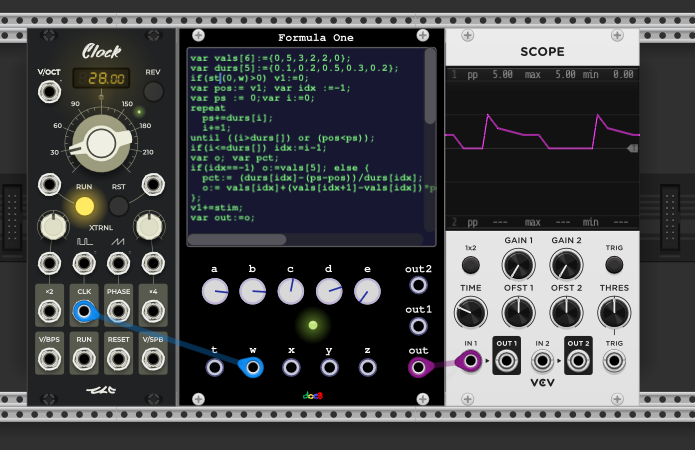
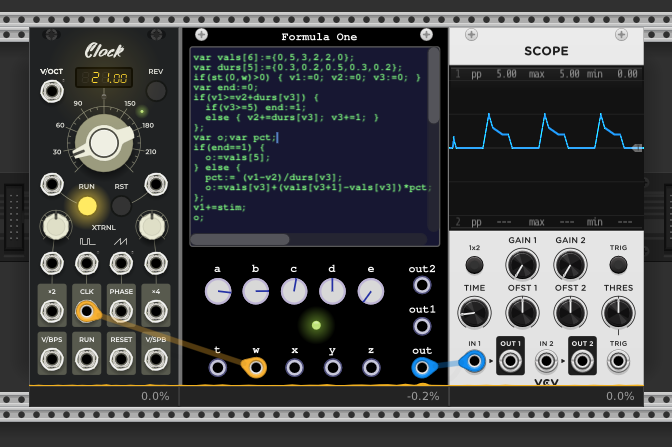
update readme and presets

diff --git a/README.md b/README.md
@@ -8,28 +8,31 @@ A script/formula evaluation module for VCVRack. This module can do almost anythi
 It is based on the [exprtk expression library](http://www.partow.net/programming/exprtk/index.html) 
 which has very good [benchmarks](https://github.com/ArashPartow/math-parser-benchmark-project#the-rounds).
 
+It is not intended for replacing native modules because they still will be faster i.e. consume less CPU 
+and provide more usability. It is for experimenting,learning and making special things. 
+
 ## Examples and Usecases
 <!-- START doctoc generated TOC please keep comment here to allow auto update -->
 <!-- DON'T EDIT THIS SECTION, INSTEAD RE-RUN doctoc TO UPDATE -->
 
-- [A simple polyphonic oscillator](#a-simple-polyphonic-oscillator)
+- [Simple polyphonic oscillator](#simple-polyphonic-oscillator)
   - [Step by Step](#step-by-step)
-- [An external phase controlled Oscillator](#an-external-phase-controlled-oscillator)
-- [A Wave Folder](#a-wave-folder)
-- [A Simple Polyphonic Filter](#a-simple-polyphonic-filter)
+- [External Phase Controlled Oscillator](#external-phase-controlled-oscillator)
+- [Wave Folder](#wave-folder)
+- [Simple Polyphonic Filter](#simple-polyphonic-filter)
   - [Step by Step](#step-by-step-1)
-- [A Polyphonic Comb Filter (Chorus,Flanger or whatever)](#a-polyphonic-comb-filter-chorusflanger-or-whatever)
+- [Polyphonic Comb Filter (Chorus,Flanger or whatever)](#polyphonic-comb-filter-chorusflanger-or-whatever)
   - [Step by Step](#step-by-step-2)
-- [A Stereo Delay](#a-stereo-delay)
-- [A Polyphonic Random and Hold](#a-polyphonic-random-and-hold)
-- [A Simple Sequencer](#a-simple-sequencer)
-- [A Chord Sequencer](#a-chord-sequencer)
-- [A Drum Sequencer](#a-drum-sequencer)
-- [A Line Segement Envelope Generator](#a-line-segement-envelope-generator)
+- [Stereo Delay](#stereo-delay)
+- [Polyphonic Random and Hold](#polyphonic-random-and-hold)
+- [Simple Sequencer](#simple-sequencer)
+- [Chord Sequencer](#chord-sequencer)
+- [Gate Sequencer](#gate-sequencer)
+- [A Line Segment Envelope Generator](#a-line-segment-envelope-generator)
 
 <!-- END doctoc generated TOC please keep comment here to allow auto update -->
 
-### A simple polyphonic oscillator
+### Simple polyphonic oscillator
 
 ![](images/Osc.png?raw=true)
 
@@ -69,7 +72,7 @@ value of the knob `a`;
 `var out:=o;` the last expression value in the script is returned to the module and written
 into the output `out`.
 
-### An external phase controlled Oscillator
+### External Phase Controlled Oscillator
 ![](images/PulseWave.png?raw=true)
 
 ```Tcl
@@ -84,7 +87,7 @@ a*5*(
 This example does the same as the one above but uses the special input `t` as phase.
 The values of `t` are normalized from -5V/5V to 0V/1V.
 
-### A Wave Folder
+### Wave Folder
 ![](images/Wavefolder.png?raw=true)
 
 `sin((c*5)*t*2*pi+b*5)*a*5`
@@ -92,7 +95,7 @@ The values of `t` are normalized from -5V/5V to 0V/1V.
 The same principle can be used to make a wave folder.
 The knob `c` controls the depth and the knob `b` controls the offset.
 
-### A Simple Polyphonic Filter
+### Simple Polyphonic Filter
 
 This example shows how to implement a simple LP filter. The algorithm is directly taken from the VCV Rack
 [source](https://github.com/VCVRack/Rack/blob/v2/include/dsp/filter.hpp)
@@ -122,7 +125,7 @@ via bufr,buf1r,buf2r,buf3r and written via bufw,buf1w,buf2w,buf3w
 
 `dcb(chn,out);`  output the dc blocked sample.
 
-### A Polyphonic Comb Filter (Chorus,Flanger or whatever)
+### Polyphonic Comb Filter (Chorus,Flanger or whatever)
 
 ![](images/Comb.png?raw=true)
 ```Tcl
@@ -167,7 +170,7 @@ setting the global variable `out1`. There are two dc blockers available per chan
 `dcb(chn,out)`; output the left channel in `out`. (The value of the last expression is
 always written into the output `out`).
 
-### A Stereo Delay
+### Stereo Delay
 
 ![](images/StereoDelay.png?raw=true)
 
@@ -192,7 +195,7 @@ The position in the call rbget is relative to the last write position + 1. With 
 sample which was written length samples before. `rbget(0,-1)` would return the last written sample.
 
 
-### A Polyphonic Random and Hold
+### Polyphonic Random and Hold
 
 ![](images/RndH.png?raw=true)
 
@@ -208,7 +211,7 @@ NB the polyphony is determined by the input channels in the following way:
 If the input t is connected the channels of t is used, otherwise the maximum of the
 channels of the inputs w,x,y,z. The image above shows the case with one channel.
 
-### A Simple Sequencer
+### Simple Sequencer
 
 ![](images/Sequencer.png?raw=true)
 
@@ -229,7 +232,7 @@ This example shows the use of one of the 8 global variables v1-v8.
 `v1` is used as the current position of the sequence which is advanced on arrival
 on a trigger on input `z`. The input `y` is used for resetting the sequence.
 
-### A Chord Sequencer
+### Chord Sequencer
 
 ![](images/Chords.png?raw=true)
 
@@ -243,7 +246,7 @@ if(v3==0) {
   v3:=1;
 };
 var chord[16]:={9,12,16,19, 9,12,14,18,
-                 7,11,14,18,  7,11,12,16};
+                7,11,14,18, 7,11,12,16};
 if(st(0,z)>0) {v1+=1; if(v1>=4) v1:=0;}
 var out: = bufr(chord[chn+v1*4]);
 
@@ -256,76 +259,58 @@ Here the variable v3 is used to fill a buffer with note values (V/Oct) only once
 Similar to the RndH example, a trigger on the input `z` advances the sequence. The notes of a single
 chord are distributed in 4 channels.
 
-### A Drum Sequencer
+### Gate Sequencer
 
-![](images/Drums.png?raw=true)
+![](images/GateSequencer.png?raw=true)
 
 ```Tcl
-var bd[16] := { 1,0,0,1,0,0,0,0,1,0,0,0,1,0,0,1};
-var sn[16] := { 0,1,0,0,1,0,0,0,0,0,0,0,1,0,0,0};
-var hh[16] := { 0,0,1,0,0,0,1,0,0,0,1,0,0,0,1,1};
-var dur := 10; // pulse duration in samples
-var p:=0; 
-if(chn==0) {
-   if(st(chn,z)>0) {
-     if(bd[v1]>0)  v2:=dur; else v2:=0;
-   };
-   if(v2>0) { p:=10; v2-=1;};
-};  
-if(chn==1) {
-   if(st(chn,z)>0) {
-     if(sn[v1]>0)  v3:=dur; else v3:=0;
-   };
-    if(v3>0) { p:=10; v3-=1;}
+var data[16] := { 
+1,0,0,0,1,0,0,0,1,0,0,0,1,0,0,1};
+var dur := 10; var gate:=0;
+if(st(chn,z)>0) {
+    if(data[v1]>0) {
+      bufw(chn,dur);
+    } else {
+      bufw(chn,0);
+    } 
 };
-if(chn==2) {
-   if(st(chn,z)>0) {
-     if(hh[v1]>0)  v4:=dur; else v4:=0;
-   };
-   if(st1(0,z)>0) {
-    v1+=1;
-    if(v1>=16) v1:=0;
-   }
-   if(v4>0) { p:=10; v4-=1;}
+if(bufr(chn)>0) { 
+  gate:=10; bufw(chn,bufr(chn)-1);
 };
-
-var out:= p;
+if(st1(0,z)>0) {
+  v1+=1;
+  if(v1>=16) v1:=0;
+};
+var out:= gate;
 ```
 This example shows how to make pulses. The duration is defined in samples.
 When a trigger arrives and the current position (v1) has a one, a state variable 
-(here v2,v3,v4) is set to the duration and decremented
-on each run until it is zero. While greater than zero the output is set to 10V.
-NB the values for bd,sn and hh can be changed while running, but on every change the
-state variables are reset to zero (especially the sequence position v1) 
-and the sequence starts from the beginning.
+ is set to the duration and decremented on each run until it is zero. 
+While greater than zero the output is set to 10V.
 
-Further ideas: set the parameters for bd,sn,hh to values in between zero and one and
-output the current value on output 1 for using as a velocity.
-
-### A Line Segement Envelope Generator
+### A Line Segment Envelope Generator
 
 ![](images/LineSeg.png?raw=true)
 
 ```Tcl
 var vals[6]:={0,5,3,2,2,0};
-var durs[5]:={0.1,0.2,0.5,0.3,0.2};
-if(st(0,w)>0) v1:=0;
-var pos:= v1; var idx :=-1;
-var ps := 0;var i:=0;
-repeat
-  ps+=durs[i];
-  i+=1;
-until ((i>durs[]) or (pos<ps));
-if(i<=durs[]) idx:=i-1;
-var o; var pct;
-if(idx==-1) o:=vals[5]; else {
-  pct:= (durs[idx]-(ps-pos))/durs[idx];
-  o:= vals[idx]+(vals[idx+1]-vals[idx])*pct;
+var durs[5]:={0.3,0.2,0.5,0.3,0.2};
+if(st(0,w)>0) { v1:=0; v2:=0; v3:=0; }
+var end:=0;
+if(v1>=v2+durs[v3]) { // advance
+  if(v3>=5) end:=1;
+  else { v2+=durs[v3]; v3+=1; }
+};
+var o;var pct;
+if(end==1) {
+  o:=vals[5]; 
+} else {
+  pct:= (v1-v2)/durs[v3];
+  o:=vals[v3]+(vals[v3+1]-vals[v3])*pct;  
 };
 v1+=stim;
-var out:=o;  
-
+o;
 ```
 Outputs line segments according to the values and duration arrays. It is triggered via the
-`w` input.  NB and TBD: this algorithm can be made much better and faster.
+`w` input.
 
